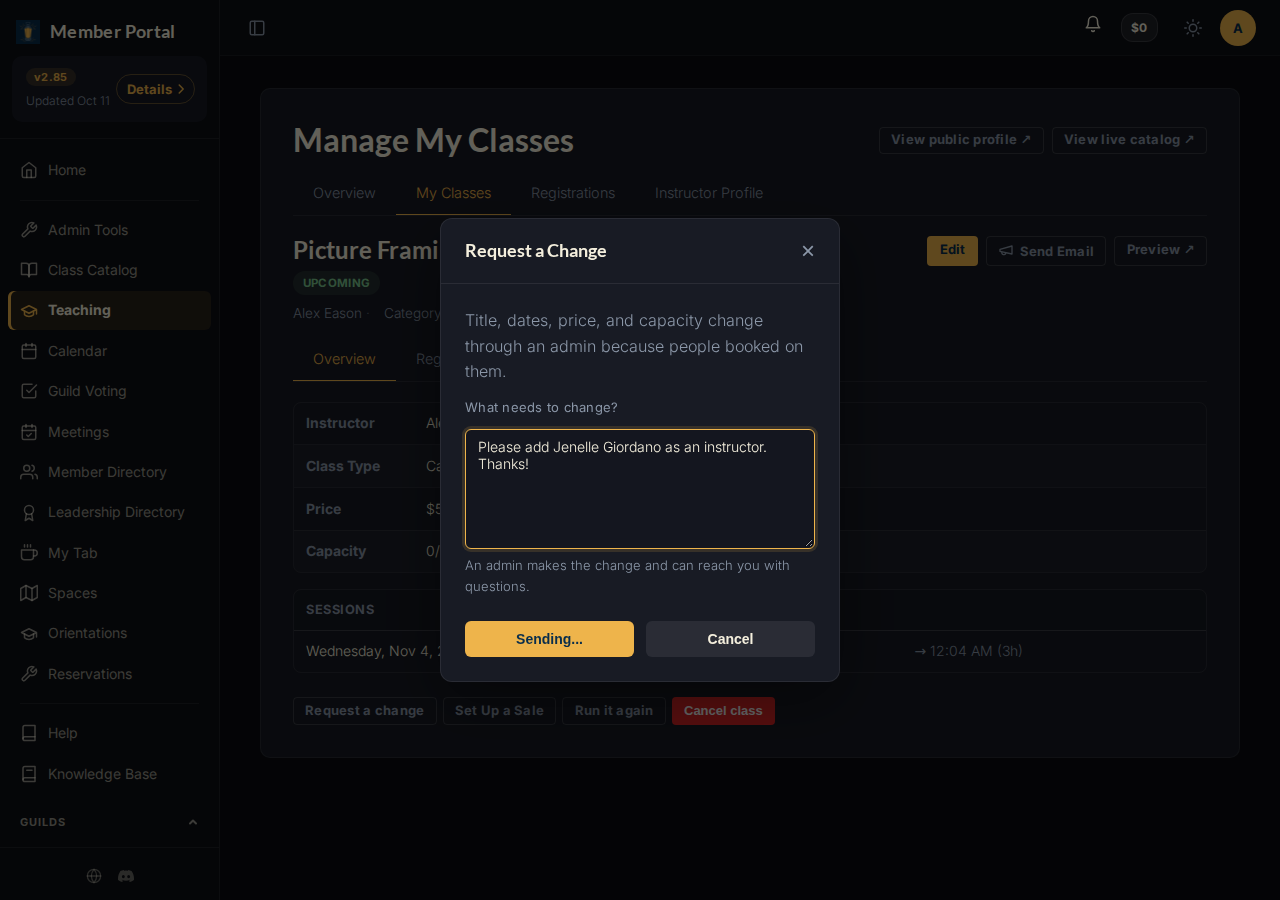
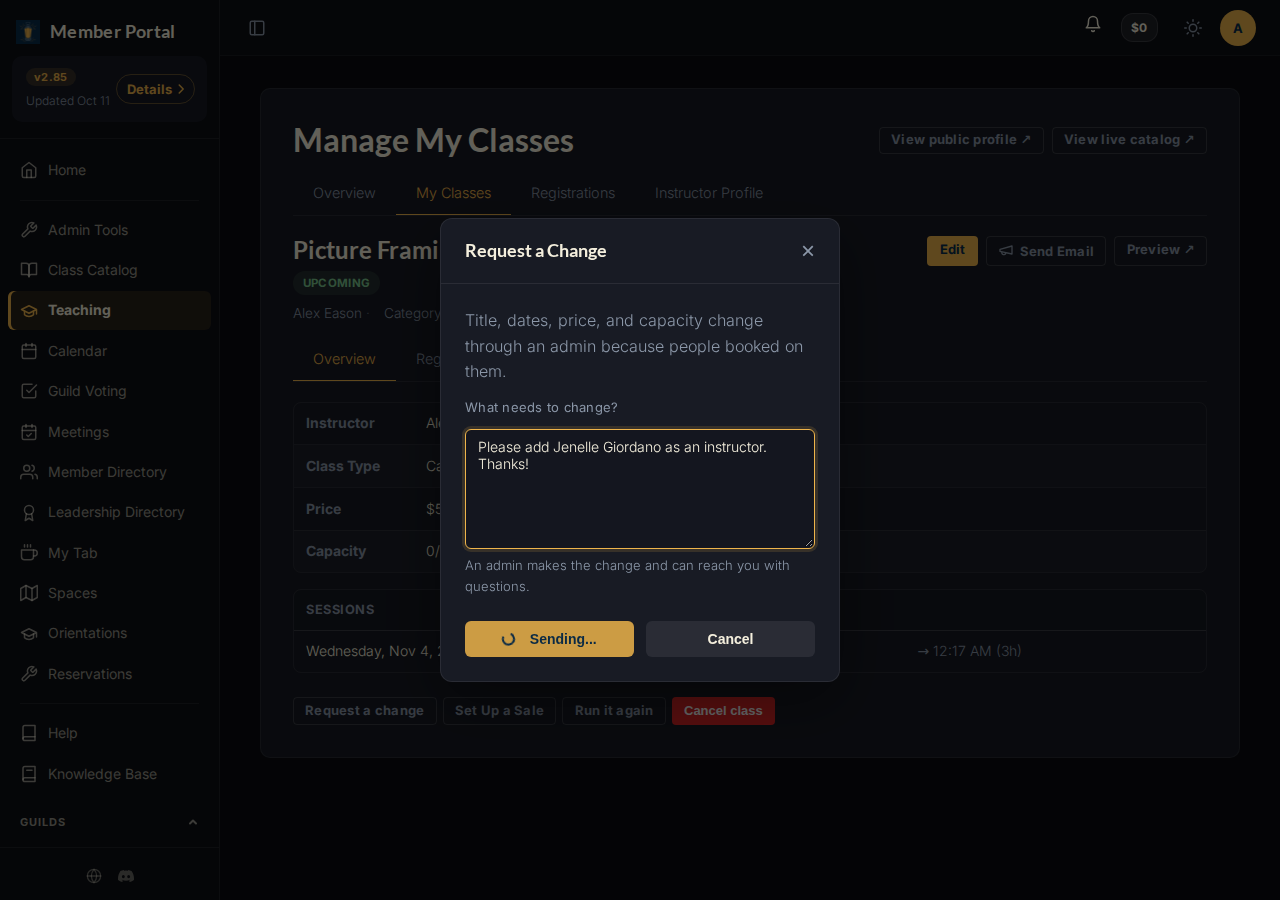
Review fixes: the whole note is kept and compared, a swallowed repeat says so, the modal Send button gets the busy styling, fragment named for the PR
Claude-Session: https://claude.ai/code/session_014B75irBP3U38dV79A44A2P

Changed region(s): [[0.3438, 0.6844, 0.5, 0.7467], [0.7188, 0.7156, 0.7812, 0.7467]]

diff --git a/static/css/components.css b/static/css/components.css
@@ -2186,12 +2186,15 @@ select[multiple] option:checked {
    style.css, which hub pages never load, and it hides the label; here the spinner sits beside
    a visible "Saving..." in the button's own colour, so it reads in both themes. */
 .hub-btn[aria-busy="true"],
-.hub-btn[aria-busy="true"]:disabled {
+.hub-btn[aria-busy="true"]:disabled,
+.pl-btn[aria-busy="true"],
+.pl-btn[aria-busy="true"]:disabled {
     cursor: progress;
     opacity: 0.85;
 }
 
-.hub-btn[aria-busy="true"]::before {
+.hub-btn[aria-busy="true"]::before,
+.pl-btn[aria-busy="true"]::before {
     content: '';
     display: inline-block;
     width: 0.9em;

diff --git a/classes/spec/models/instructor_actions_spec.py b/classes/spec/models/instructor_actions_spec.py
@@ -14,6 +14,7 @@ from classes.factories import ClassOfferingFactory, ClassSessionFactory, Registr
 from classes.models import ClassApproval, ClassOffering, CmsActivity, Registration
 from core.models import Notification
 from membership.models import AdminCapability, Member
+from tests.membership.factories import MemberFactory
 
 Status = ClassOffering.Status
 
@@ -120,15 +121,42 @@ def describe_request_change():
         # Picture Framing, 2026-10-12: one note tapped 33 times in 49 seconds reached every
         # CMS Administrator 33 times. A repeat inside the window is the same request.
         note = "Please add Jenelle Giordano as an instructor. Thanks!"
-        for _ in range(3):
-            offering.request_change(instructor, note)
-        assert CmsActivity.objects.filter(kind=CmsActivity.Kind.CLASS_CHANGE_REQUESTED).count() == 1
+        rows = CmsActivity.objects.filter(kind=CmsActivity.Kind.CLASS_CHANGE_REQUESTED)
+        assert offering.request_change(instructor, note) is True
+        assert offering.request_change(instructor, note) is False
+        assert offering.request_change(instructor, note) is False
+        assert rows.count() == 1
         assert Notification.objects.filter(trigger="class_change_requested", user=holder_user).count() == 1
         assert len([m for m in mail.outbox if m.to == ["cms-repeat@example.com"]]) == 1
+        # Only the latest request counts: a different note in between makes the same note new again.
+        assert offering.request_change(instructor, "Also add a seat.") is True
+        assert offering.request_change(instructor, note) is True
+        assert rows.count() == 3
         # The same note from a co-instructor is that person's own first request.
         partner_user = UserFactory(username="partner@example.com", email="partner@example.com")
         partner = Member.objects.get(user=partner_user)
-        offering.request_change(partner, note)
+        assert offering.request_change(partner, note) is True
+        assert rows.count() == 4
+
+    def it_treats_a_long_note_edited_past_two_hundred_characters_as_new(instructor, db):
+        offering = _live(instructor)
+        head = "Please move the class to the following Saturday and raise the cap by two, " * 3
+        assert len(head) > 200
+        assert offering.request_change(instructor, head + "and keep the price.") is True
+        assert offering.request_change(instructor, head + "and drop the price to $60.") is True
+        rows = CmsActivity.objects.filter(kind=CmsActivity.Kind.CLASS_CHANGE_REQUESTED).order_by("pk")
+        assert [row.payload["note"] for row in rows] == [
+            " ".join((head + "and keep the price.").split()),
+            " ".join((head + "and drop the price to $60.").split()),
+        ]
+
+    def it_never_matches_a_member_with_no_login_against_anyone(db):
+        # Unreachable from the page (it needs a login), kept honest at the model: with no user
+        # there is nothing to repeat, so the request goes out each time.
+        nobody = MemberFactory(full_legal_name="No Login")
+        offering = _live(nobody)
+        assert offering.request_change(nobody, "Move it.") is True
+        assert offering.request_change(nobody, "Move it.") is True
         assert CmsActivity.objects.filter(kind=CmsActivity.Kind.CLASS_CHANGE_REQUESTED).count() == 2
 
     def it_sends_the_same_note_again_once_the_hour_has_passed(instructor, db):

diff --git a/classes/models.py b/classes/models.py
@@ -2264,7 +2264,7 @@ class ClassOffering(HeroCropMixin, models.Model):
     # nothing while the fan out ran, Send stayed tappable, and every tap landed as its own period.
     CHANGE_REQUEST_REPEAT_WINDOW = timedelta(hours=1)
 
-    def request_change(self, instructor: "Member", note: str) -> None:
+    def request_change(self, instructor: "Member", note: str) -> bool:
         """Ask an admin to change a live class's title, dates, price, or capacity.
 
         Registrants booked on those facts, so they change through a human: this logs
@@ -2273,6 +2273,9 @@ class ClassOffering(HeroCropMixin, models.Model):
         its own dedupe period, except a repeat: the same note from the same instructor
         inside :attr:`CHANGE_REQUEST_REPEAT_WINDOW` logs nothing and notifies nobody, since
         the admins already hold it.
+
+        Returns:
+            True when the request went out, False when it repeated one the admins have.
 
         Raises:
             ValueError: If the class is not PUBLISHED, has already finished, or ``note``
@@ -2293,12 +2296,14 @@ class ClassOffering(HeroCropMixin, models.Model):
 
         actor = instructor.user
         if self._change_request_repeats(actor, note):
-            return
+            return False
+        # The whole note: the repeat check compares against it, and a clipped copy would read
+        # an edit past the clip as the same note.
         row = activity.log(
             CmsActivity.Kind.CLASS_CHANGE_REQUESTED,
             class_offering=self,
             actor=actor,
-            payload={"note": note[:200]},
+            payload={"note": note},
         )
         # The legacy name, for the same reason as ``registrations_path`` above: this one is
         # stamped into a persisted notification URL and an unrecallable email.
@@ -2316,13 +2321,16 @@ class ClassOffering(HeroCropMixin, models.Model):
             url=edit_path,
             period=f"offering:{self.pk}:change_request:{row.pk}",
         )
+        return True
 
     def _change_request_repeats(self, actor: "User | None", note: str) -> bool:
         """True when ``actor``'s latest request on this class is this note, sent inside the window.
 
         Only the latest request counts: a different note in between makes the same note new
-        again, as a conversation would. ``note`` is compared as the activity row keeps it.
+        again, as a conversation would. A member with no login has no requests to repeat.
         """
+        if actor is None:
+            return False
         latest = (
             CmsActivity.objects.filter(kind=CmsActivity.Kind.CLASS_CHANGE_REQUESTED, class_offering=self, actor=actor)
             .order_by("-created_at")
@@ -2331,8 +2339,7 @@ class ClassOffering(HeroCropMixin, models.Model):
         if latest is None:
             return False
         return (
-            latest.created_at >= timezone.now() - self.CHANGE_REQUEST_REPEAT_WINDOW
-            and latest.payload["note"] == note[:200]
+            latest.created_at >= timezone.now() - self.CHANGE_REQUEST_REPEAT_WINDOW and latest.payload["note"] == note
         )
 
     @property

diff --git a/classes/spec/views/teach_instructor_actions_spec.py b/classes/spec/views/teach_instructor_actions_spec.py
@@ -227,6 +227,19 @@ def describe_request_change():
             kind=CmsActivity.Kind.CLASS_CHANGE_REQUESTED, class_offering=offering
         ).exists()
 
+    def it_tells_the_instructor_when_the_admins_already_have_the_note(instructor_fixture, client):
+        offering = _live(instructor_fixture)
+        client.force_login(instructor_fixture.user)
+        url = reverse("classes:teach_class_request_change", kwargs={"pk": offering.pk})
+        first = client.post(url, {"note": "Move it to Friday."})
+        # The page after the first post shows its flash, so the second response carries only its own.
+        client.get(first.url)
+        resp = client.post(url, {"note": "Move it to Friday."})
+        assert resp.status_code == 302
+        assert resp.url == reverse("classes:teach_class_detail", kwargs={"pk": offering.pk})
+        assert _messages(resp) == ["The admins already have this note."]
+        assert CmsActivity.objects.filter(kind=CmsActivity.Kind.CLASS_CHANGE_REQUESTED).count() == 1
+
     def it_re_renders_the_modal_open_with_the_error_on_a_blank_note(instructor_fixture, client):
         offering = _live(instructor_fixture)
         client.force_login(instructor_fixture.user)

diff --git a/classes/views.py b/classes/views.py
@@ -3350,11 +3350,14 @@ def teach_class_request_change(request: HttpRequest, pk: int) -> HttpResponse:
         return _render_class_overview(request, offering, change_form=form)
     teaching_member: Member = request.user.member
     try:
-        offering.request_change(teaching_member, form.cleaned_data["note"])
+        sent = offering.request_change(teaching_member, form.cleaned_data["note"])
     except ValueError as exc:
         messages.error(request, str(exc))
         return redirect("classes:teach_class_detail", pk=offering.pk)
-    messages.success(request, "Sent to the admins.")
+    if sent:
+        messages.success(request, "Sent to the admins.")
+    else:
+        messages.info(request, "The admins already have this note.")
     return redirect("classes:teach_class_detail", pk=offering.pk)
 
 
